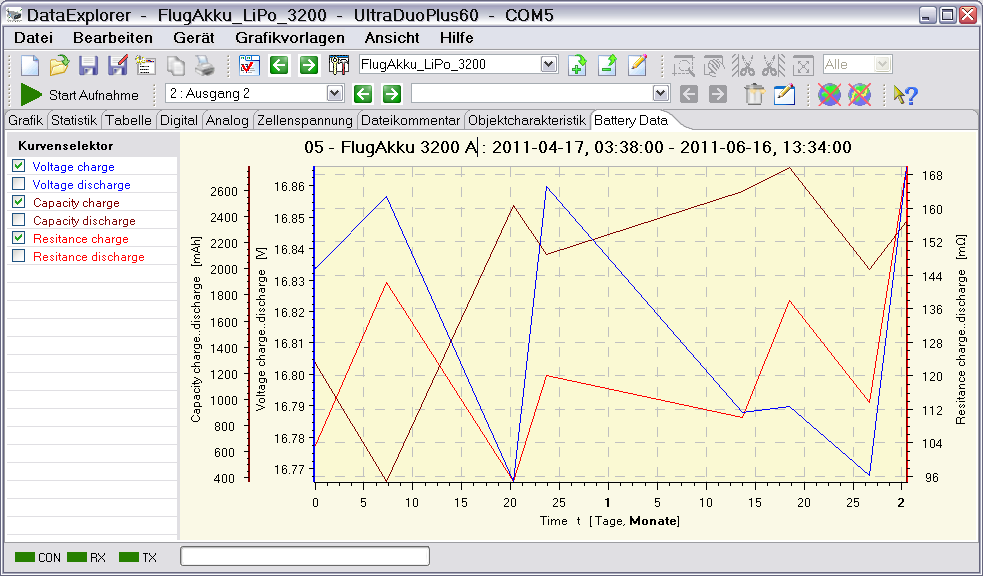
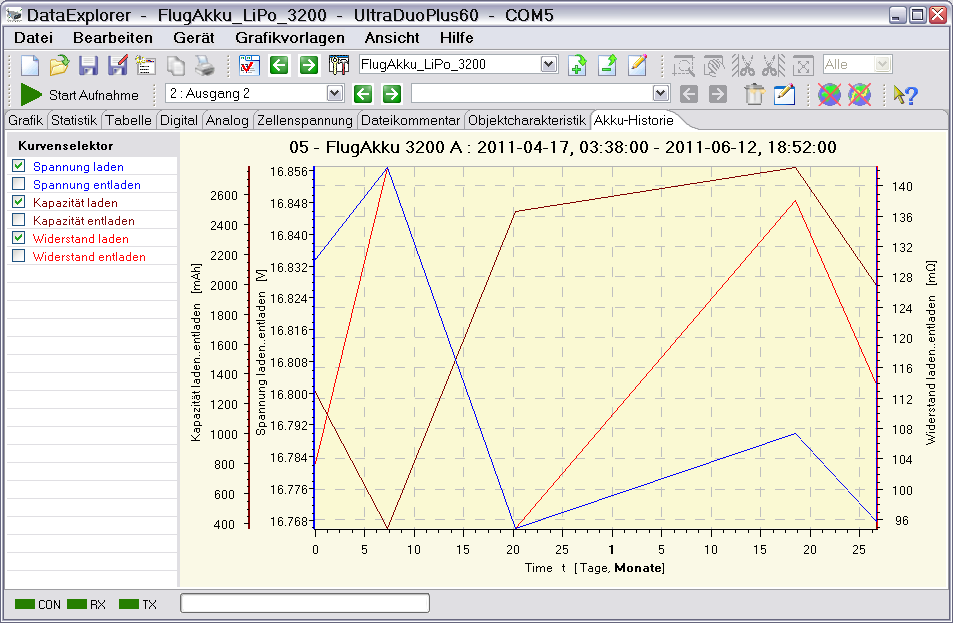
documentation update

diff --git a/UltramatUDP/src/help/de/HelpInfo.html b/UltramatUDP/src/help/de/HelpInfo.html
@@ -106,12 +106,12 @@ Der Objektname, der die meisten &Uuml;bereinstimmungen aufweist, wird ausgew&aum
 <P><B>Hinweis : </B>M&ouml;chte man diese Eigenschaft f&uuml;r sich ausnutzen, sollte man die Batteriespeichernamen und Objektnamen entsprechend benennen.
 Beide Namen k&ouml;nnen auch nachtr&auml;glich umbenannt werden, wenn erforderlich.
 </P>
-<H3><FONT FACE="Arial"><FONT SIZE=4><I>Akkuzyclusdaten</I></FONT></FONT></H3>
+<H3><FONT FACE="Arial"><FONT SIZE=4><I>Akkuzyklusdaten Historie</I></FONT></FONT></H3>
 <P>&Uuml;ber den Akkudaten-Tabulator können die Akkuzyklusdaten abgerufen werden. 
 Diese Daten werden dann in einem neuen Tabulator in der Hauptansicht dargestellt.
 </P>
 <P ALIGN=CENTER><IMG SRC="HelpInfo_Bild_8.png" NAME="Bild8 Akkuzyklusdaten" ALT="Bild8 Akkuzyklusdaten"></P>
-<P><B>Hinweis : </B>Es werden nur Daten angezeigt, die innerhalb der letzten 2 Jahre f&uuml;r den ausgew&auml;hlten Akku aufgenimmen wurden.
+<P><B>Hinweis : </B>Es werden nur Daten angezeigt, die innerhalb der letzten 2 Jahre f&uuml;r den ausgew&auml;hlten Akku aufgenommen wurden.
 </P>
 <P>Durch Misskonfiguration oder Firmwareupdate kann es vorkommen, dass die Ger&auml;teinterne Zeitbasis verloren geht. 
 Dadurch kann es zu Fehleintr&auml;gen bez&uuml;glich des Datums bzw. der Zeit kommt.
@@ -119,59 +119,10 @@ Wird eine solche Zeitstempelabweichung festgestellt wird ein kleiner Dialog ange
 </P>
 <P ALIGN=CENTER><IMG SRC="HelpInfo_Bild_9.png" NAME="Bild9 Korrekturdialog" ALT="Bild9 Korrekturdialog"></P>
 <P>Wie kann man die zur &Auml;nderung vorgeschlagenen Zeitstempel mit Lade-/Entlade-Vorg&auml;ngen korrelieren? 
-Durch Ver&auml;ndern des Logginglevels f&uuml;r die UltraDuoPlusDialog Klasse können alle aus dem Ger&auml;t gelesenen Daten angezeigt werden. 
+Beim Einlesen &uuml;berspringt man erst einmal alle &Auml;nderungsvorschl&auml;ge und schaut sich die Tabelle mit den gelesenen Eintr&auml;gen an.
 </P>
-<P ALIGN=CENTER><IMG SRC="HelpInfo_Bild_10.png" NAME="Bild10 Tracelogkonfiguration" ALT="Bild10 Tracelogkonfiguration"></P>
-<P>Ruft man nach dieser Einstellung nochmal die Daten ab werden vergleichbare Eintr&auml;ge in die trace.log.1 Datei geschrieben.
-(Das Verzeichnis, in der sich trace.log befindet ist Betriebssystemabh&auml;ngig und ist in der Haupthilfe unter Verwendete Verzeichnisse beschrieben).
-Hierbei sollte immer Nein f&uuml;r keine &Auml;nderung im Korrekturdialog ausgew&aum;lt werden.
-</BR>
-2011-06-17 10:22:27.781 000010 FINE    gde.device.graupner.UltraDuoPlusDialog.widgetSelected() - 2011-04-17, 03:38:00;    16834;    16264;     1281;       33;     1036;        0
-</BR>
-2011-06-17 10:22:27.781 000010 FINE    gde.device.graupner.UltraDuoPlusDialog.widgetSelected() - 2011-04-24, 11:04:00;    16857;        0;      371;        0;     1425;        0
-</BR>
-2011-06-17 10:22:27.781 000010 FINE    gde.device.graupner.UltraDuoPlusDialog.widgetSelected() - 2011-05-07, 09:45:00;    16766;        0;     2495;        0;      949;        0
-</BR>
-2011-06-17 10:22:27.781 000010 FINE    gde.device.graupner.UltraDuoPlusDialog.widgetSelected() - 2012-05-09, 08:43:00;    16860;        0;     2115;       11;     1204;        0
-</BR>
-2011-06-17 10:22:30.125 000010 FINE    gde.device.graupner.UltraDuoPlusDialog.widgetSelected() - 2015-05-18, 00:50:00;    16880;        0;       26;        0;        0;        0
-</BR>
-2011-06-17 10:22:30.671 000010 FINE    gde.device.graupner.UltraDuoPlusDialog.widgetSelected() - 2012-05-29, 09:21:00;    16788;        0;     2606;        0;     1102;        0
-</BR>
-2011-06-17 10:22:31.140 000010 FINE    gde.device.graupner.UltraDuoPlusDialog.widgetSelected() - 2011-06-04, 16:04:00;    16790;       34;     2783;       15;     1382;       29
-</BR>
-2011-06-17 10:22:31.140 000010 FINE    gde.device.graupner.UltraDuoPlusDialog.widgetSelected() - 2011-06-12, 18:52:00;    16768;        0;     2000;        0;     1140;        0
-</BR>
-2011-06-17 10:22:31.140 000010 FINE    gde.device.graupner.UltraDuoPlusDialog.widgetSelected() - 2014-06-13, 03:14:00;    16866;        0;     2370;        0;     1699;        0
-</BR>
-2011-06-17 10:22:31.609 000010 FINE    gde.device.graupner.UltraDuoPlusDialog.widgetSelected() - 1999-11-30, 00:00:00;        0;        0;        0;        0;        0;        0
-</BR>
-2011-06-17 10:22:31.609 000010 FINE    gde.device.graupner.UltraDuoPlusDialog.widgetSelected() - 1999-12-01, 11:16:00;        0;        0;        0;        0;        0;        0
-</BR>
-2011-06-17 10:22:31.609 000010 FINE    gde.device.graupner.UltraDuoPlusDialog.widgetSelected() - used entries between 2009-06-17, 10:22:27 - 2011-06-17, 12:22:27
-</BR></BR>
-2011-06-17 10:22:31.609 000010 FINE    gde.device.graupner.UltraDuoPlusDialog.widgetSelected() - 2011-04-17, 03:38:00;            0;    16834;    16264;     1281;       33;     1036;        0
-</BR>
-2011-06-17 10:22:31.609 000010 FINE    gde.device.graupner.UltraDuoPlusDialog.widgetSelected() - 2011-04-24, 11:04:00;    631560000;    16857;        0;      371;        0;     1425;        0
-</BR>
-2011-06-17 10:22:31.609 000010 FINE    gde.device.graupner.UltraDuoPlusDialog.widgetSelected() - 2011-05-07, 09:45:00;   1750020000;    16766;        0;     2495;        0;      949;        0
-</BR>
-2011-06-17 10:22:31.609 000010 FINE    gde.device.graupner.UltraDuoPlusDialog.widgetSelected() - 2011-06-04, 16:04:00;   4191960000;    16790;       34;     2783;       15;     1382;       29
-</BR>
-2011-06-17 10:22:31.609 000010 FINE    gde.device.graupner.UltraDuoPlusDialog.widgetSelected() - 2011-06-12, 18:52:00;   4893240000;    16768;        0;     2000;        0;     1140;        0
-</BR></BR>
-Nun kann man anhand von aufgezeichneten DataExplorer Dateien, am besten &uuml;ber den Statistiktabulator, herausfinden, welcher Eintrag auf welchen Zeitstempel zu berichtigen ist.
-Am besten nimmt amn eine leere Textdatei und stellt sich die Daten zusammen, in etwa so:
-<BR>
-2011-05-10, 19:19:37	2115 <--- 2012-05-09, 08:43:00;    16860;        0;     2115;       11;     1204;        0
-<BR>
-1999-01-01, 00:00:00	0000 <--- 2015-05-18, 00:50:00;    16880;        0;       26;        0;        0;        0
-<BR>
-2011-05-30, 19:40:23	2606 <--- 2012-05-29, 09:21:00;    16788;        0;     2606;        0;     1102;        0
-<BR>
-2011-06-16, 13:34:00	2370 <--- 2014-06-13, 03:14:00;    16866;        0;     2370;        0;     1699;        0
-<BR>
-In der zweiten Zeile wir bewusst ein Eintrag mit '1999-01-01, 00:00:00' &uuml;berschrieben, dadurch wird dieser dann von Ger&auml;t vor den anderen wiederverwendet.
+<P ALIGN=CENTER><IMG SRC="HelpInfo_Bild_10.png" NAME="Bild10 Dialog Akkuhistorie" ALT="Bild10 Dialog Akkuhistorie"></P>
+<P>Nun kann man sich die Daten in aller Ruhe ansehen und mittels der gesicherten DataExplorer Dateien von den in Frage kommenden Einträge bei einem weiterem Abrufen der Historiendaten die Korrekturen vornehmen.
 </P>
 </BODY>
 </HTML>

diff --git a/UltramatUDP/src/help/en/HelpInfo.html b/UltramatUDP/src/help/en/HelpInfo.html
@@ -107,5 +107,23 @@ The object name which has the most containment hits get selected.
 <P><B>Hint : </B>To have good matching results, name battery memories as well as object key names accordingly.
 Both names battery memory name as well as object key name can be renamed if required
 </P>
+<H3><FONT FACE="Arial"><FONT SIZE=4><I>Battery Cycle Data History</I></FONT></FONT></H3>
+<P>Using the Battery Data tab of the UltraDuoPlus dialog it is possible to query battery history data, cycle data.
+Doing this result in a new utility graphics tab, called Battery History, in the main application window. 
+</P>
+<P ALIGN=CENTER><IMG SRC="HelpInfo_Image_8.png" NAME="Image8 Battery Cycle Data" ALT="Image8 Battery Cycle Data"></P>
+<P><B>Hint : </B>Only data gets displayed which are taken within the last two years of the selected battery memory.
+</P>
+<P>Through device date miss adjustment or firmware update it is possible to collect wrong data in respect of time stamp. 
+If such a time stamp will be detected a small dialog gets opened to enable correction.
+</P>
+<P ALIGN=CENTER><IMG SRC="HelpInfo_Image_9.png" NAME="Image9 Correction Dialog" ALT="Image9 Correction Dialog"></P>
+<P>How it is possible to correlate such entries regarding the time stamps?
+Just skip all the correction dialogs and have a brief look at the table which now contains all the entries red from device.
+</P>
+<P ALIGN=CENTER><IMG SRC="HelpInfo_Image_10.png" NAME="Image10 Dialog Battery History" ALT="Image10 Dialog Battery History"></P>
+<P>Using saved DataExplorer files of the selected battery, statistics tab, you will find which entries have a mismatch.
+Afterwards just run the history query again and correct the entries where a matching file was found. 
+</P>
 </BODY>
 </HTML>
